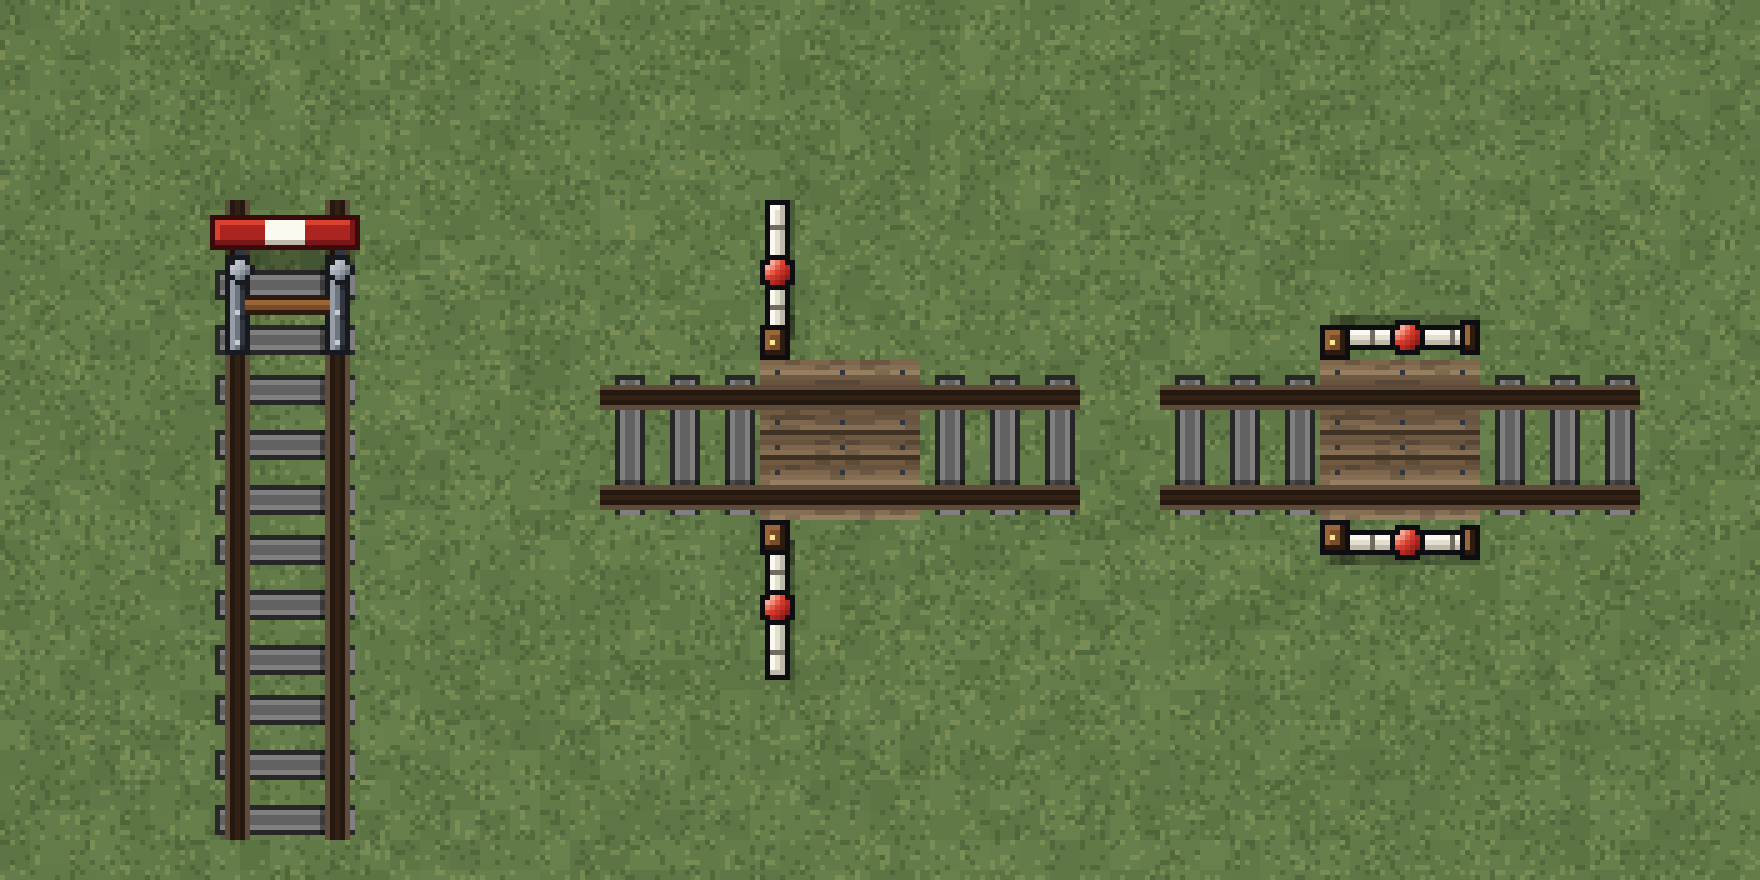
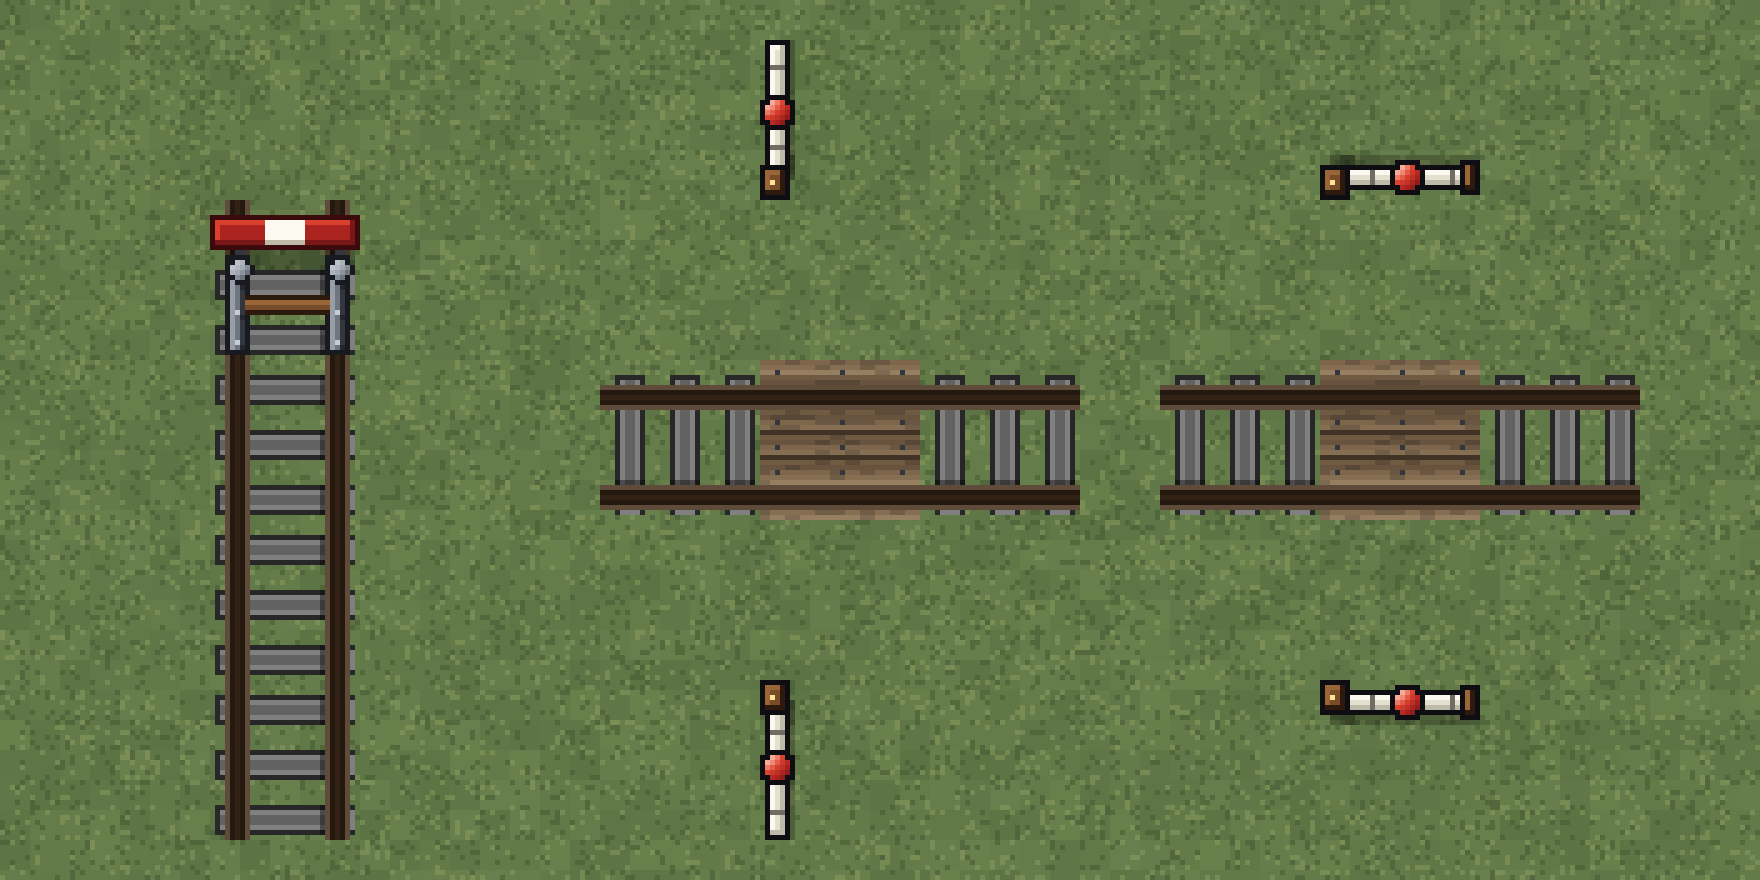
Trains guide: crossing gates stand two tiles from the rails
Claude-Session: https://claude.ai/code/session_016WTP2S8bnoQAWYAPdvzHu7

diff --git a/src/guides/Guide_to_Trains.md b/src/guides/Guide_to_Trains.md
@@ -359,19 +359,19 @@ Both are from the **Rail & Steam** node. A platform needs nothing special: car d
 
 Both are from the **Rail & Steam** node.
 
-![A line ending at a red buffer stop, and a level crossing with boards between the rails and a white gate on the road at each side, open to the road and then shut across it](../images/civ13-train-trackworks.png)
+![A line ending at a red buffer stop, and a level crossing with boards between the rails and a white gate on the road two tiles out at each side, open to the road and then shut across it](../images/civ13-train-trackworks.png)
 
 | Item | Cost | What it does |
 | --- | --- | --- |
 | Buffer stop | 4 iron | Ends a line. Build it on the last tile of rails; use a **wrench** to turn it. |
 | Crossing boards | 2 wood | Boards between the rails where a road crosses. Build them on the rail tile; a wrench turns them. |
-| Crossing gate | 4 wood | A gate across the road beside the line. |
+| Crossing gate | 4 wood | A gate across the road at a crossing. Build it two tiles from the rails. |
 
 **Buffer stops.** A train brought up to a buffer stop slowly comes to rest against it, and nothing is hurt. It also holds a train that runs into it fairly hard, and examining the stop shows how many hard blows it has taken. A train that hits it at speed smashes it to scrap and is wrecked as in any [crash](#crashes); the rails stay, so build a new stop. Without a stop, a train that runs off the end of the rails at any speed above a crawl [leaves them](#leaving-the-rails).
 
-**Level crossings.** Where a road crosses the line, lay crossing boards on the rail tile and build a gate on the road at each side, on the tile next to the rails. Use a wrench on a gate until it faces the rails (examine it to check).
+**Level crossings.** Where a road crosses the line, lay crossing boards on the rail tile and build a gate on the road at each side, two tiles from the rails: leave one clear tile between the gate and the rails, because wide cars and big engines overhang the track by a tile each side and would hit a shut gate any nearer. Use a wrench on a gate until it faces the rails (examine it to check).
 
-- Click a gate with an empty hand to swing the gates. All the gates within four tiles move together.
+- Click a gate with an empty hand to swing the gates. All the gates within four tiles of each other move together.
 - **Shut across the road**, a gate is solid: nobody walks or drives through it. **Open to the road**, it is out of the way. The gates don't stop trains either way.
 - The gates won't shut while someone or something solid is standing in one of them.
 - Everyone in a cab is told how the gates stand when the train comes within ten tiles of the crossing. A train that runs over a crossing with its gates open to the road is seen to do it, and the gate keeps count.
